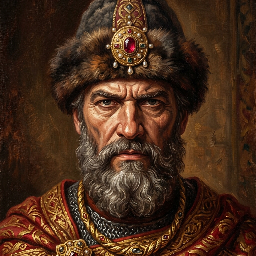
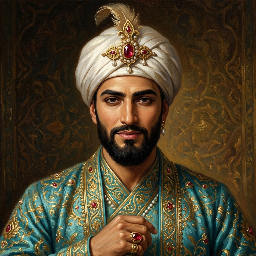
1.0.042: real Oghuz/Khwarezm ruler portraits; mole skips friendly tribes; cleanup

diff --git a/src/game/engine.ts b/src/game/engine.ts
@@ -722,7 +722,6 @@ export class Game {
     this.contactT = 0.8;
     if (!this.settings.fogOfWar) { this.rivalMet = true; for (const n of NATIONS) if (n.kind === 'tribe') this.tribeMet[n.id] = true; }
     else {
-      for (const u of this.units) if (u.owner !== 'player' || u.hidden) continue;
       // встреча со славянским княжеством
       if (!this.rivalMet) {
         for (const b of this.blds) {
@@ -3019,12 +3018,13 @@ export class Game {
     this.sound.ack('soldier');
     this.pushHud();
   }
-  // ближайшая база соперника/племени (для шпионажа)
+  // ближайшая база соперника/враждебного племени (для шпионажа); друзей не выслеживаем
   nearestEnemyBase(x: number, y: number): Bld | null {
     let best: Bld | null = null; let bd = Infinity;
     for (const b of this.blds) {
       if (b.owner === 'player') continue;
       if (!(b.owner === 'enemy' && b.key === 'towncenter') && !b.tribe) continue;
+      if (b.tribe) { const nid = this.tribeNationOf(b); if (nid && this.tribeRel[nid] === 'friend') continue; }
       const d = dist2(x, y, b.x, b.y);
       if (d < bd) { bd = d; best = b; }
     }

diff --git a/src/App.tsx b/src/App.tsx
@@ -16,7 +16,7 @@ const LS_KEY = 'empires-dawn-highscores-v1';
 const LS_SETTINGS = 'empires-dawn-settings-v1';
 // версия игры — единый источник для показа в меню.
 // При обновлениях поднимаем ТРЕТЬЮ цифру на 1: 1.0.008 → 1.0.009 → 1.0.010 …
-export const GAME_VERSION = '1.0.041';
+export const GAME_VERSION = '1.0.042';
 function loadScores(): ScoreEntry[] {
   try { return JSON.parse(localStorage.getItem(LS_KEY) || '[]'); } catch { return []; }
 }

diff --git a/context.md b/context.md
@@ -929,3 +929,11 @@ pixelart.ts: добавлены KZ_V_WALK_SIDE/FRONT/BACK (4 кадра) и KZ_V
    ВНИМАНИЕ: oghuz_yabgu.png и khwarezm_shah.png — ВРЕМЕННЫЕ заглушки (копии
    pecheneg/rival), не успели догенерироваться (лимит 10 картинок/ход) — заменить.
 - tsc чисто, vite build ОК (~10.5MB).
+
+## 1.0.042 — портреты огузов/хорезма + мелкие фиксы
+- Догенерированы настоящие портреты oghuz_yabgu.png (ябгу Тоган, белый кыпчакский
+  калпак с золотым узором, синий халат) и khwarezm_shah.png (шах Ануш-Тегин, белый
+  тюрбан с рубиновым эгретом, бирюзовый халат) — заменили временные заглушки 1.0.041.
+- Крот (infiltrate) больше не выбирает дружественное племя целью (nearestEnemyBase
+  пропускает tribe-лагеря с rel==='friend').
+- Убран мёртвый пустой цикл в updateContacts.
